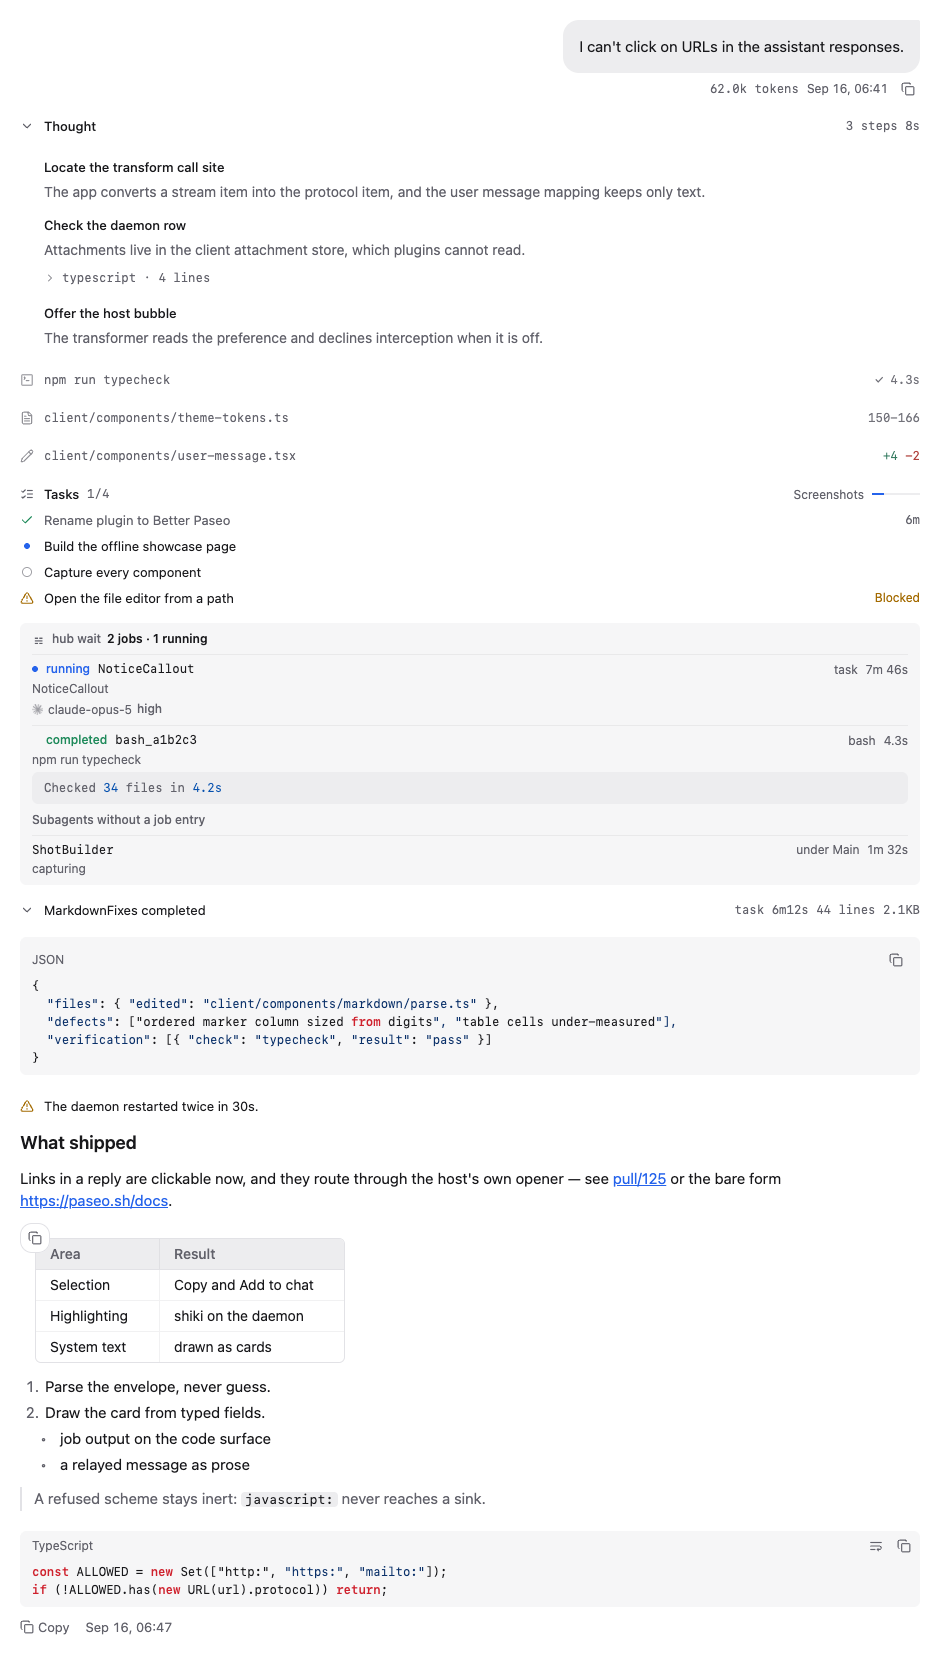
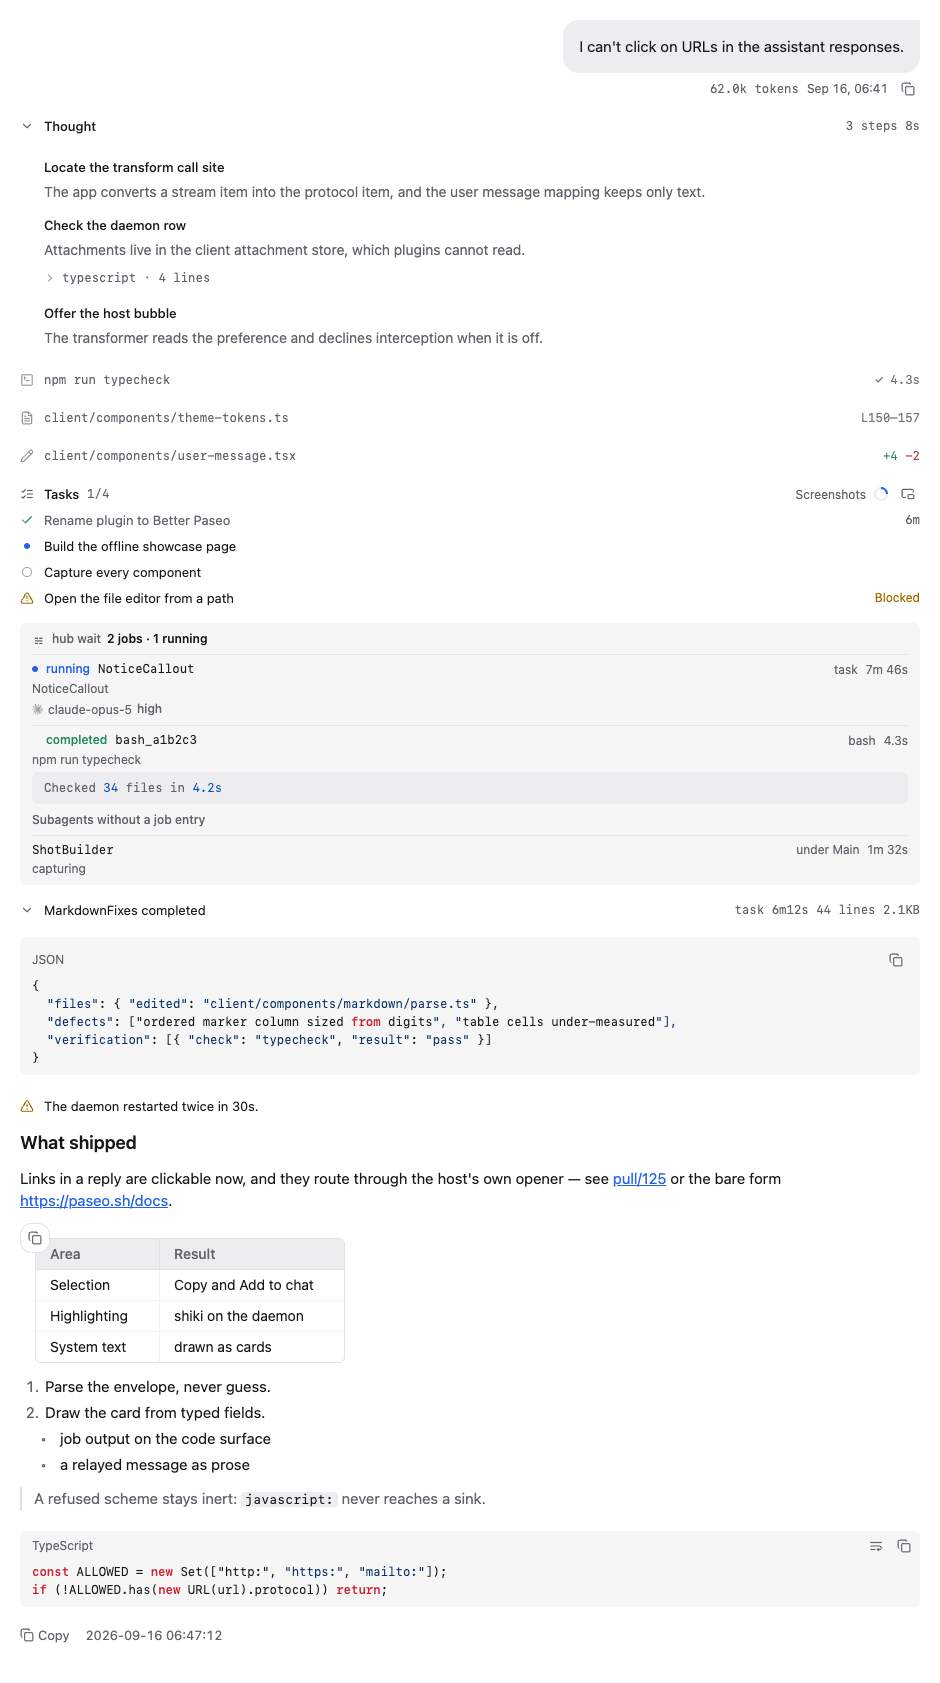
docs(readme): document question transcripts, maximized code previews and the reply footer
Covers what landed since b678fec: structured question transcripts for ask calls (searchable, read-only), maximized previews for unlabelled, Markdown and plain-text fences with a raw/rendered switch and Wrap lines, the completed-turn footer (provider, model, thinking level, duration), Copy selected and Add to chat for touch table cells, and the selection bar closing on scroll. Settings rows, troubleshooting, compatibility and Waiting on Paseo follow. The hero and thread images are regenerated from the showcase because the checklist ring and footer times changed; English and Chinese.

diff --git a/README.md b/README.md
@@ -252,8 +252,9 @@ call: reads, writes, edits, shell and Git commands, searches, fetches, sub-agent
 Paseo's own tools. Calls Paseo passes as plain text get a label-and-text card.
 
 Oh My Pi's `hub` tool and its GitHub device calls are matched by name and have cards of their
-own; no other agent sends them. Paseo 0.11 hands Oh My Pi's `eval` and `ask` to plugins as plain
-text and its `task` as a sub-agent item, so those get the plain-text and sub-agent cards.
+own; no other agent sends them. On Paseo 0.11, Oh My Pi's `eval` and `ask` calls reach plugins as
+plain text and `task` arrives as a sub-agent item. If `ask` also carries structured `questions`
+data, it gets a question transcript; otherwise it stays a generic text card.
 
 - Every call starts as one borderless row, 26pt on desktop and 28pt on touch, with a summary built
   for its type: the command, the path and line range, `+4 −2` for an edit, the exit code and
@@ -269,6 +270,10 @@ text and its `task` as a sub-agent item, so those get the plain-text and sub-age
 - Paseo's own tools carry the Paseo mark, and a created agent its provider's mark.
 - Every op of Oh My Pi's `hub` tool has a card: processes, messages and job snapshots. The cards
   report; they carry no buttons, since a plugin cannot restart or cancel anything.
+- Across agents, recognized question calls with structured `questions` data render as paginated
+  transcripts with choices, recorded answers and status. **Show raw data** reveals the payload;
+  the transcript is read-only, and Paseo still handles answers. Questions stay wrapped in previews
+  for readability.
 
 | Shell and Git | Read |
 | --- | --- |
@@ -303,13 +308,20 @@ text and its `task` as a sub-agent item, so those get the plain-text and sub-age
 
 - Markdown is drawn by the plugin with headings, lists, task lists, quotes, highlighted code blocks
   and local images. Three styles: **Document**, **Compact** and **Terminal**.
+- Unlabelled, Markdown and plain-text code fences can open a maximized preview window. Switch
+  between rendered Markdown and raw text, copy the source, and use **Wrap lines** in raw-text mode.
 - Tables have column rules, a header fill and a rounded frame; cells are a size smaller with tighter
   lines, and column widths account for tabular digits and CJK width.
 - Every table has a copy control at its top-left corner. On web and desktop, hovering it (or a
   long press on a touch screen) opens **Copy as Markdown** and **Copy as image**, a picture of the
   table as drawn; a plain press copies the Markdown. On iOS and Android it copies the Markdown.
-- On web and desktop, double-click a cell to select its text. On iOS, double-tap a cell to select
-  it, then use the table's corner control to copy the selected cell text.
+- On web and desktop, double-click a cell to select its text. On iOS and Android, double-tap a cell;
+  the corner menu always offers **Copy selected** and offers **Add to chat** when Paseo provides its
+  composer capability.
+- Each completed turn has a separate footer under its final reply with Copy and its time, plus the
+  provider mark, model, thinking level and observed duration when available. The model name copies
+  when pressed, and completed-turn footers remain during a later run. Turn
+  **Plugin markdown for replies** off to restore Paseo's full footer, including its Fork action.
 - Every local image in a reply is drawn, not only the first.
 - Turn **Plugin markdown for replies** off to hand replies back to Paseo, which draws mermaid
   diagrams and its own images and file links.
@@ -342,7 +354,8 @@ phone, long-press a collapsed row to open the same preview without covering the 
   desktop, long press on touch, or the `⋯` menu. Plain-text code blocks can wrap and have a copy
   button. On iOS a long press in a reply places a cursor and lets you drag a selection.
 - Selecting text in a card on web or desktop raises **Copy** and **Add to chat**, which quotes the
-  selection in the composer, fenced when it came from code.
+  selection in the composer, fenced when it came from code. The bar closes on scroll; if no composer
+  is visible, **Add to chat** copies the selection instead.
 
 ### Prompt bubble
 
@@ -391,12 +404,12 @@ Options whose parent is off are dimmed, and **Reset** asks for a second press.
 | Spacing | Tight rows | On | Reduces the gap under a plugin row from 16pt to 4pt when another row follows. Rows Paseo already stacks are left alone. Turn off if rows overlap. |
 | Spacing | Tight reply | On | Reduces the gap from 16pt to 4pt when a finished reply is followed by a plugin row, including a checklist. Turn off if they overlap. |
 | Messages | Enhanced prompt bubble | Off | Shows the turn's token usage and keeps Copy visible. Readable pasted images are drawn; prompts with other attachments stay with Paseo. Changing it updates existing prompts too. Rewind stays wherever Paseo provides it. |
-| Messages | Plugin markdown for replies | On | Off hands replies to Paseo, for mermaid, host images and Paseo's file links. |
+| Messages | Plugin markdown for replies | On | Off hands replies to Paseo, restoring its full footer and enabling mermaid, host images and Paseo's file links. |
 | Messages | Markdown style | Document | Document, Compact or Terminal (body in the code font). |
-| Messages | Selection toolbar | On | Web and desktop: Copy and Add to chat on selected text. |
+| Messages | Selection toolbar | On | Web and desktop: Copy and Add to chat on selected text; the bar closes on scroll. |
 | Hover previews | Hover previews | On | Preview collapsed rows and paths on desktop hover; long-press a collapsed row on a phone. |
 | Hover previews | Delay | 1 s | 0–10 s, saved to tenths of a second, before the desktop preview opens. |
-| Hover previews | Wrap lines | On | Wrap long lines in preview panels; turn off to scroll them horizontally. |
+| Hover previews | Wrap lines | On | Wrap long lines in preview panels, including raw text in maximized code previews; turn off to scroll horizontally. |
 | Hover previews | Line numbers | Off | Show line numbers beside files, diffs and command output; diffs use the file's own line numbers. |
 | Hover previews | Alternating line shading | On | Shade every other line in preview panels. |
 
@@ -419,7 +432,8 @@ sets the call's initial state.
 
 Paseo's chat find (Ctrl/Cmd+F) cannot reveal a row a plugin draws, because the transformed row
 carries a different id. Better Paseo therefore takes Ctrl/Cmd+F on desktop and web and opens its own
-find bar over the chat. It searches everything rendered, including tool cards: Enter for the next
+find bar over the chat. It searches everything rendered, including tool cards and structured
+question transcripts: Enter for the next
 match, Shift+Enter for the previous, Escape to close. It only sees loaded messages; scroll up to
 include older history.
 
@@ -442,6 +456,7 @@ open the daemon machine's file manager.
 | --- | --- |
 | Rows overlap, or a reply overlaps the row below | Turn off **Tight rows** or **Tight reply**. |
 | A reply needs a mermaid diagram, a host image or Paseo's file links | Turn off **Plugin markdown for replies**. |
+| A selected table cell has no **Add to chat** action on a phone | Paseo must provide its optional composer capability; **Copy selected** is always available. |
 | A prompt with an attachment should use Paseo's renderer | Turn off **Enhanced prompt bubble**. Attachments the plugin cannot render stay with Paseo automatically. |
 | Ctrl/Cmd+F misses old messages | Scroll up to load them, or hand replies back to Paseo as above. |
 | Token figures are missing on an old turn | Usage is not stored on timeline items, so only turns this client watched live show it. |
@@ -452,11 +467,11 @@ open the daemon machine's file manager.
 Better Paseo targets Paseo 0.11 and later. It installs and draws the timeline on Paseo 0.8–0.10,
 with these known issues:
 
-- Oh My Pi's `eval` and `ask` calls reach plugins under their own names there, not as the plain
-  text Paseo 0.11 sends, and Better Paseo has no card for them. They show as a generic card: the
-  tool name, its raw arguments and its raw result.
-- Where a host ability is missing, the plugin falls back as described under
-  [Waiting on Paseo](#waiting-on-paseo); the fallbacks were measured on 0.11.2 only.
+- Oh My Pi's `eval` and `ask` calls reach plugins under their own names there, not through Paseo
+  0.11's plain-text mapping. `eval` stays generic; `ask` gets a question transcript only when its
+  input contains a structured `questions` array, and otherwise stays generic too.
+- Some features depend on host abilities; see [Waiting on Paseo](#waiting-on-paseo). Host capability
+  checks have been verified with 0.11.2.
 
 ## Waiting on Paseo
 
@@ -467,6 +482,8 @@ absent. These host changes are verified in a Paseo fork but not yet released:
   **Tight rows** reduces the gap from 16pt to 4pt where applicable.
 - Paseo sharing its font settings with plugins, so a change in Appearance applies live. Until then
   web and desktop read Paseo's locally stored Appearance settings.
+- An optional composer capability for touch table selection, so **Add to chat** can be offered
+  beside **Copy selected**. Until then, the corner menu still copies the selected cell.
 - Lowering `class` syntax before the bundle runs on Hermes.
 - A sticky current prompt and sticky headers on open cards; the plugin side is wired up.
 
